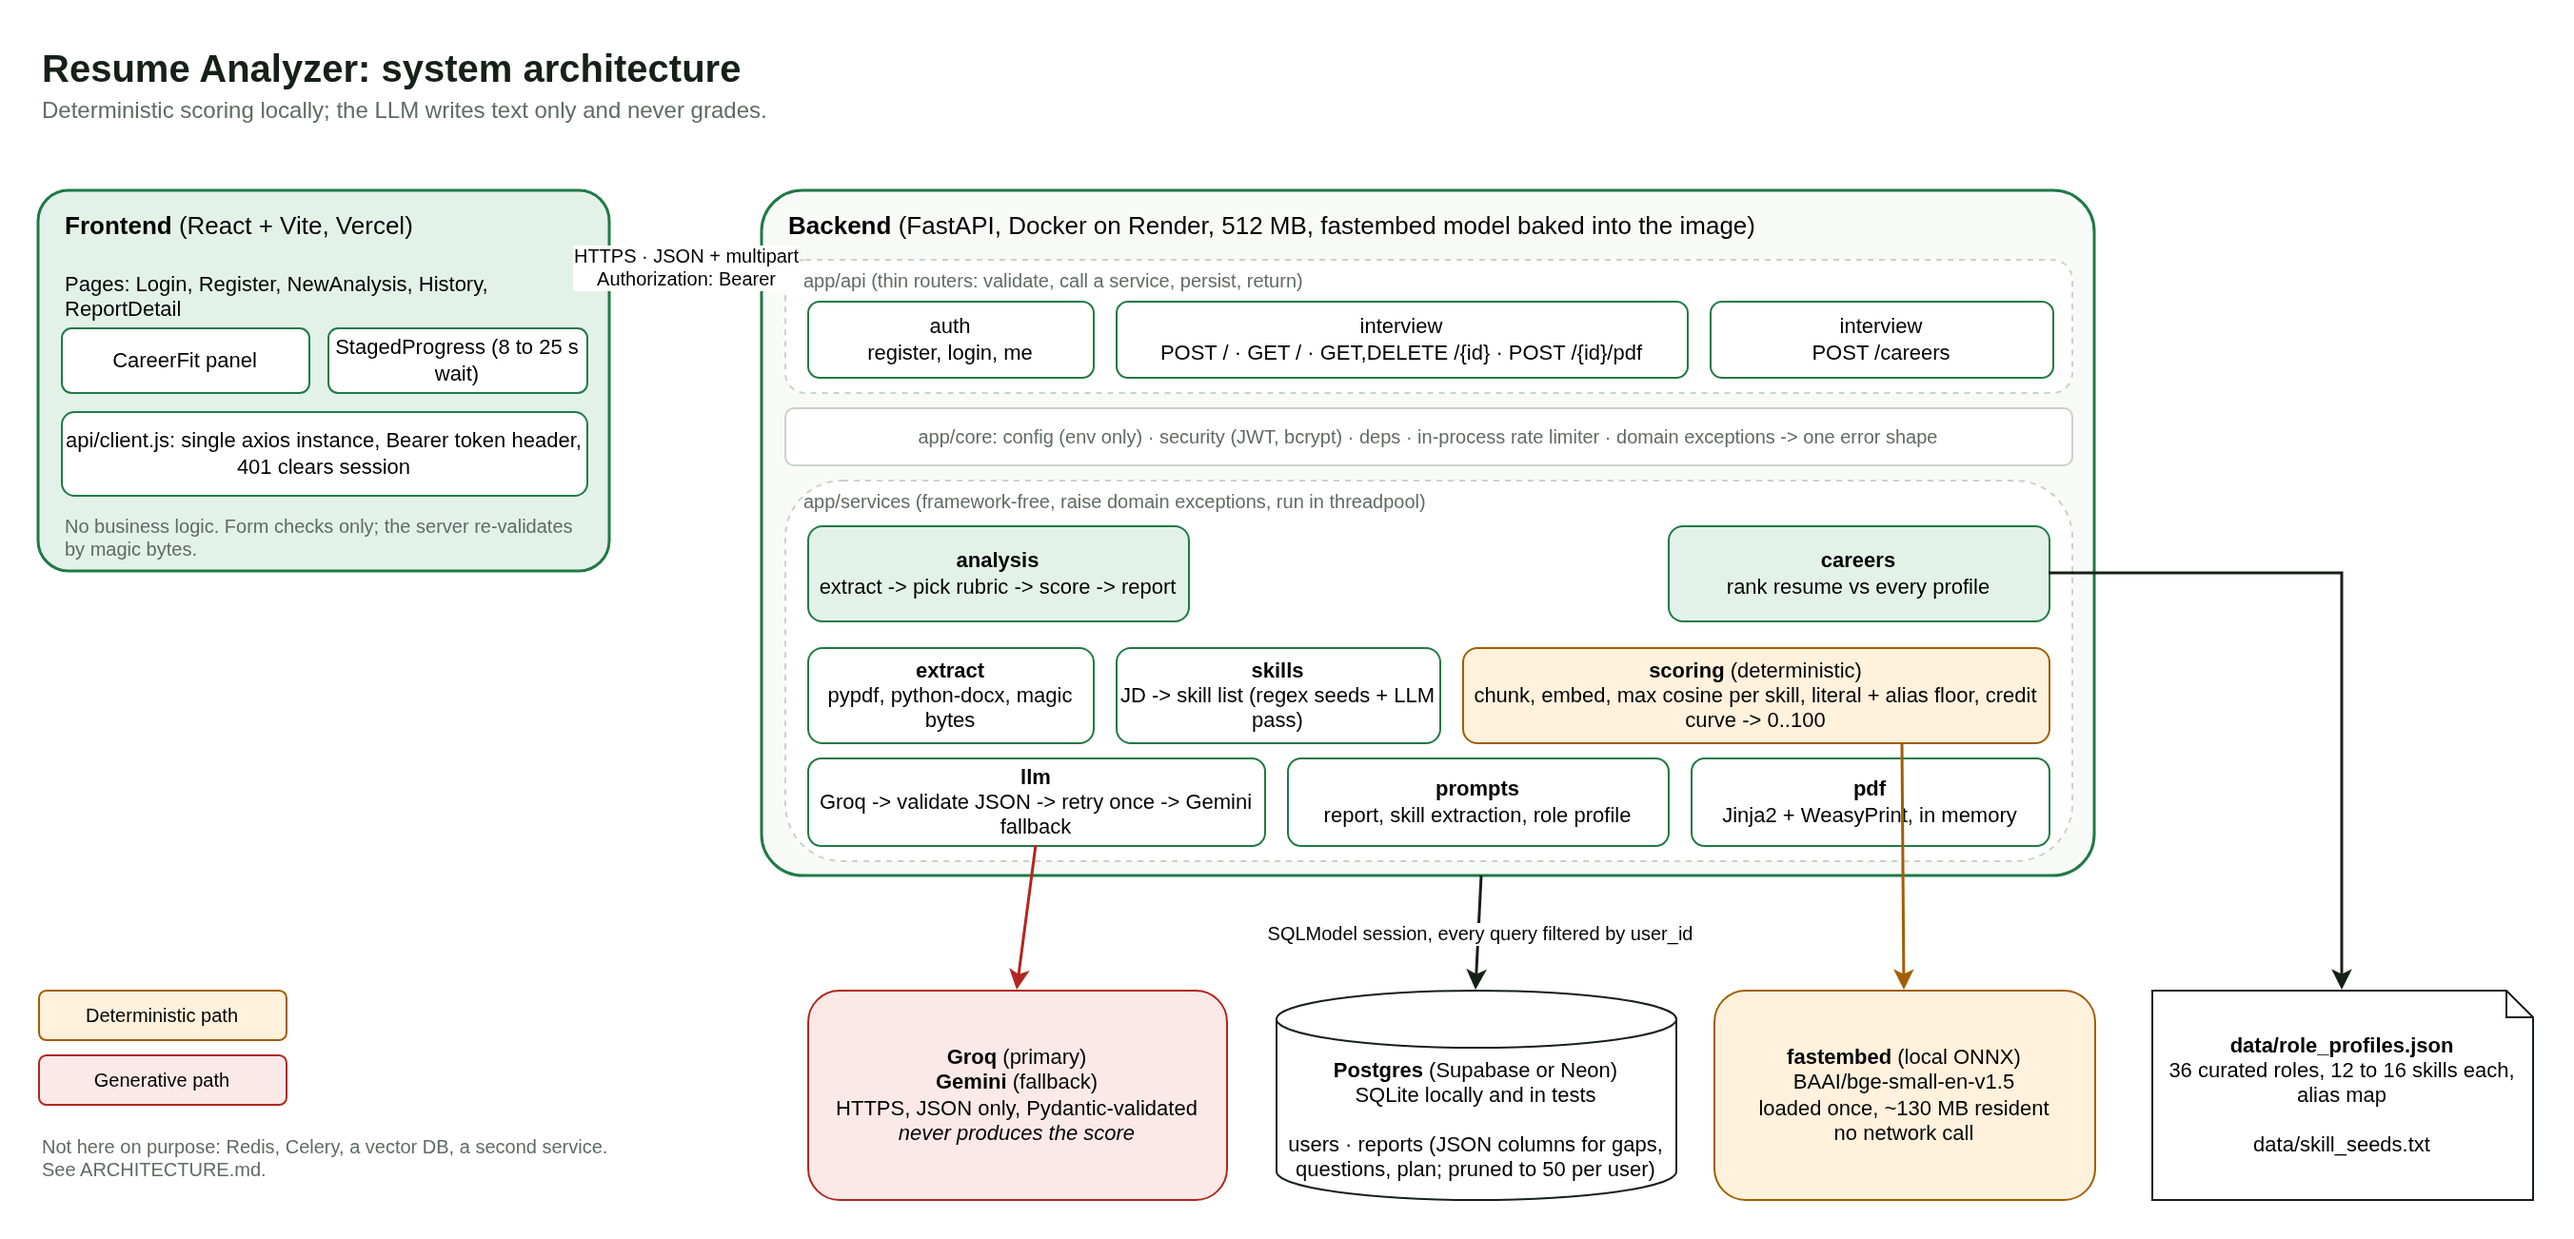
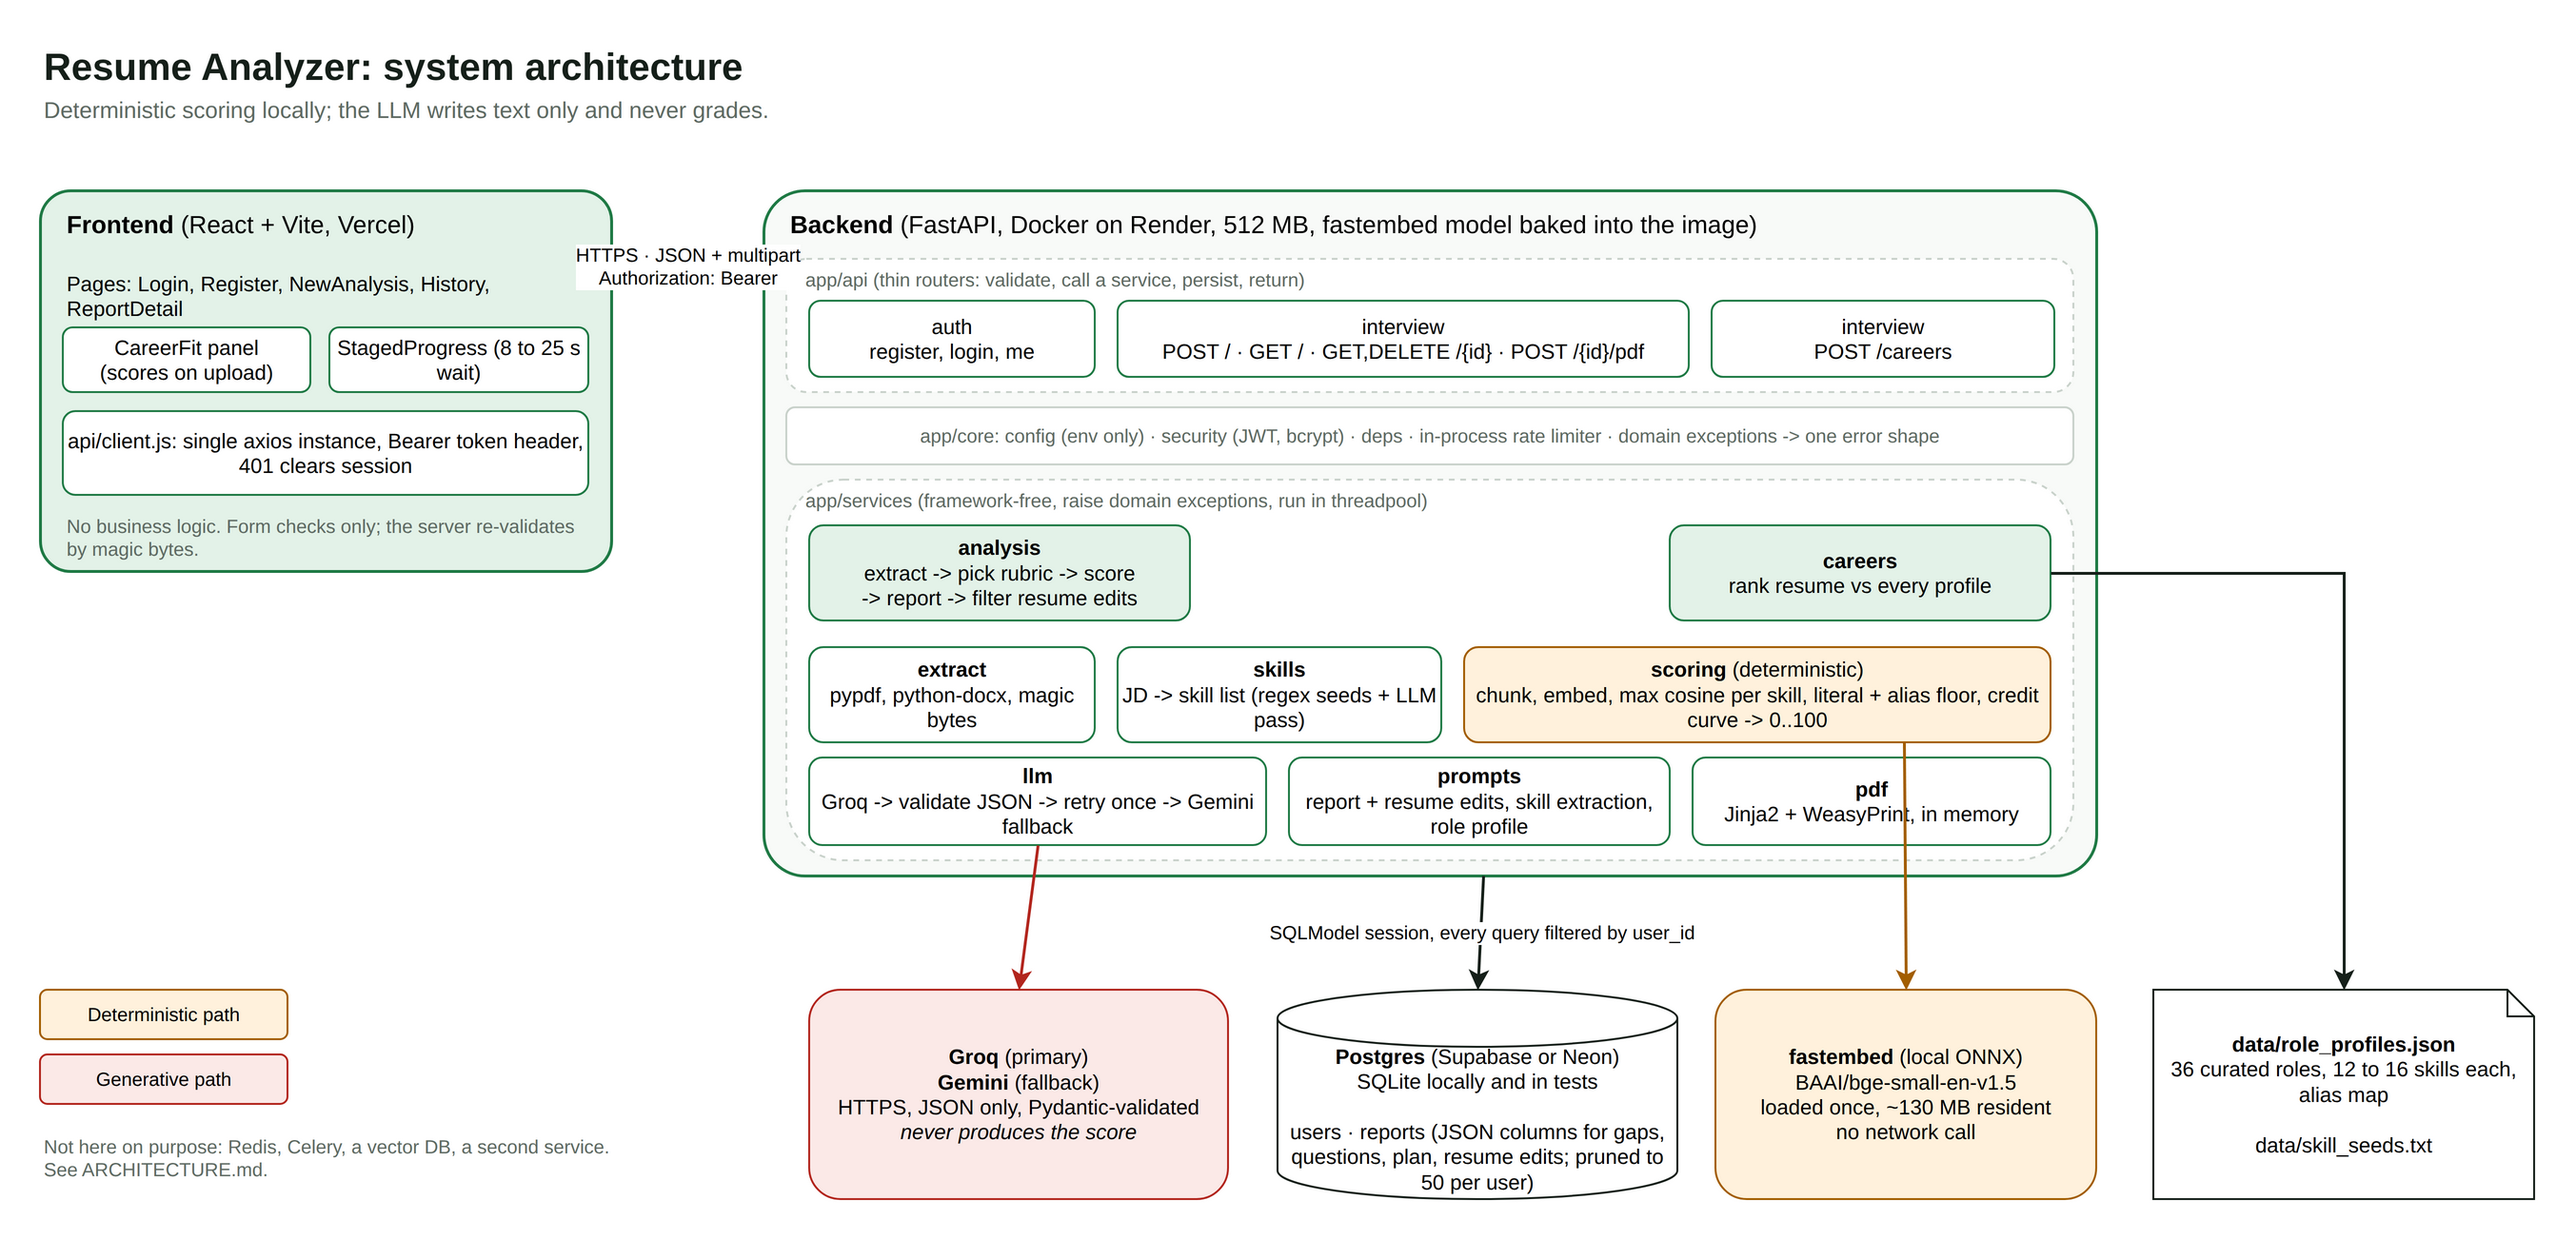
docs: re-export architecture diagrams with draw.io desktop
The PNGs now match the updated draw.io source. The embed-based export
script gets a 403 from diagrams.net in headless browsers, so its header
documents the desktop CLI command used instead.

diff --git a/docs/export-diagrams.js b/docs/export-diagrams.js
@@ -2,6 +2,16 @@
 /**
  * Exports every page of docs/architecture.drawio to a PNG in docs/.
  *
+ * As of November 2026 embed.diagrams.net answers headless browsers with a
+ * 403, so this script times out. The draw.io desktop app's CLI does the same
+ * export locally and is what produced the current PNGs (page index is
+ * 1-based):
+ *
+ *   drawio -x -f png -p 1 -s 2 -b 20 -o architecture.png architecture.drawio
+ *   drawio -x -f png -p 2 -s 2 -b 20 -o request-flows.png architecture.drawio
+ *
+ * On Linux the AppImage may need --no-sandbox before -x.
+ *
  * Usage (needs Node 20+, a Chrome or Chromium, and network access to
  * embed.diagrams.net):
  *
